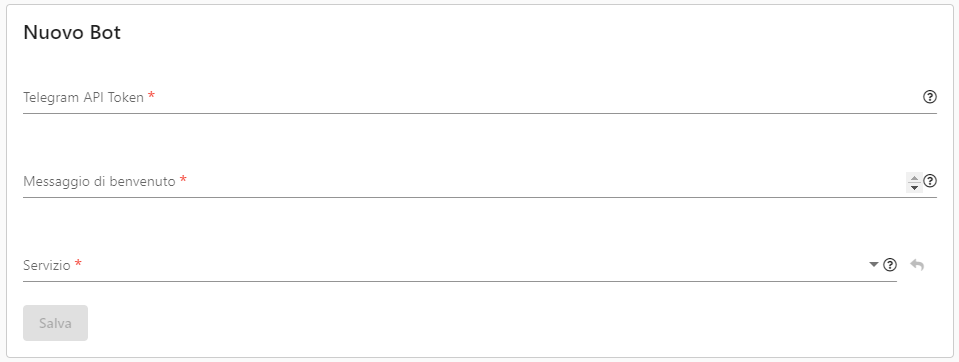
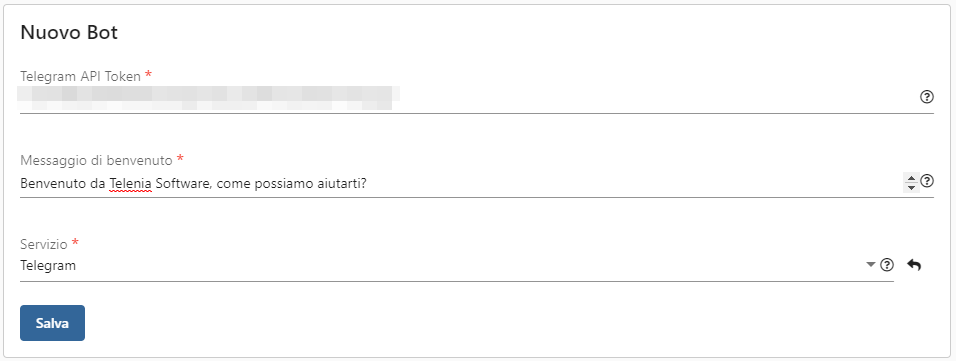
Documentazione Telegram

diff --git a/source/projects/OpzioniContattoClienti/CanaleTelegram/ConfigurazioneOCC.rst b/source/projects/OpzioniContattoClienti/CanaleTelegram/ConfigurazioneOCC.rst
@@ -1,0 +1,16 @@
+=====================
+Configurazione su OCC
+=====================
+
+
+.. note:: Per associare un bot di Telegram all'interno dell'OCC è necessario aver precedentemente creato un bot e avere a disposizione l'API key fornita in fase di creazione.
+
+Accedere alla sezione **Canali** -> **Social** -> **Telegram**
+
+Da questa sezione andranno quindi inseriti:
+
+- L'API key fornita da Telegram;
+- Un messaggio di benvenuto inviato dal bot al momento del suo avvio
+- Il servizio su cui verranno creati i ticket provenienti dai messaggi ricevuti dal bot ( verranno mostrati solamente i servizi con canale support abilitato ) 
+
+.. image:: /images/social/telegram/1.png

diff --git a/source/projects/OpzioniContattoClienti/CanaleTelegram/CreazioneBot.rst b/source/projects/OpzioniContattoClienti/CanaleTelegram/CreazioneBot.rst
@@ -2,7 +2,7 @@
 Creazione Bot
 =============
 
-Per creare un nuovo bot è necessario accedere via app mobile o `sito web <https://www.web.telegram.org>`_ a Telegram.
+Per creare un nuovo bot è necessario accedere via app mobile o `sito web <https://web.telegram.org>`_ a Telegram.
 
 A questo punto basterà cercare l'utente BotFather e avviarlo.
 Una volta avviato, seguendo i passaggi della seconda immagine:

diff --git a/source/projects/OpzioniContattoClienti/CanaleTelegram/AttivaTelegram.rst b/source/projects/OpzioniContattoClienti/CanaleTelegram/AttivaTelegram.rst
@@ -9,6 +9,7 @@ L'utente finale invierà quindi le richieste al bot, che verranno poi convertite
 .. warning:: L'integrazione con Telegram necessita che la macchina TVox sia esposta ad internet con certificato SSL valido.
 
 .. toctree::
-   :maxdepth: 3
+   :maxdepth: 2
 
    CreazioneBot
+   ConfigurazioneOCC
